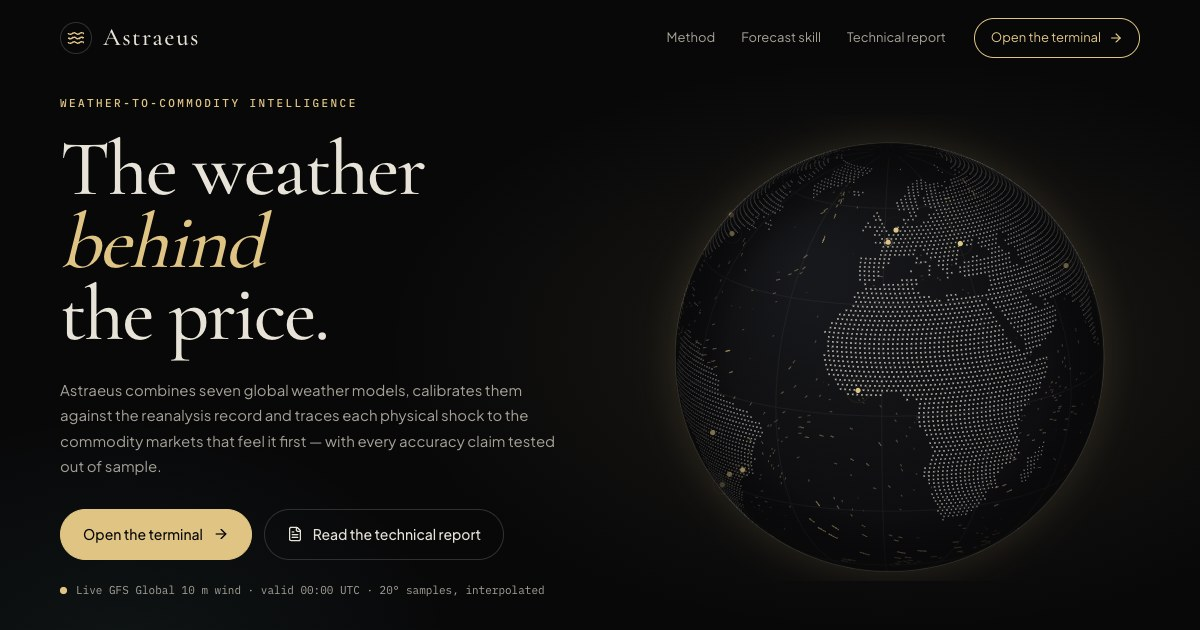
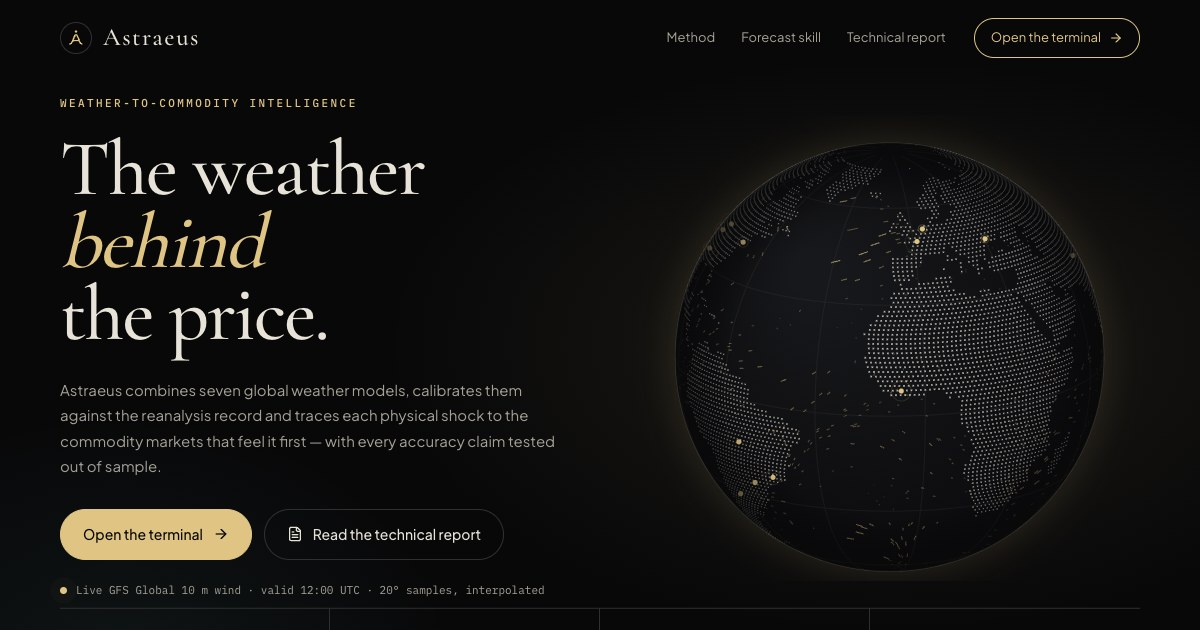
feat(brand): new Astraeus mark; MIT code licence, CC BY-SA 4.0 results
- Replace the three-wave mark (too close to another firm's logo) with a forecast density curve forming an A, crossed
  by its 80% interval, with a star above: sidebar, landing header, model diagram, favicon and social image.
- LICENSE (MIT) for the code; LICENSE-RESULTS.md (CC BY-SA 4.0, required by Met Office share-alike) for
  public/research, data/track-record, docs/results and the technical report.
- Landing footnote names v3.1 as the live method.

diff --git a/src/components/landing/Landing.tsx b/src/components/landing/Landing.tsx
@@ -1,5 +1,6 @@
 import React, { useEffect, useMemo, useRef, useState } from 'react';
-import { ArrowRight, ArrowUpRight, BookOpen, FileText, Gauge, Layers, ShieldCheck, Sparkles, Waves } from 'lucide-react';
+import { ArrowRight, ArrowUpRight, BookOpen, FileText, Gauge, Layers, ShieldCheck, Sparkles, TrendingUp } from 'lucide-react';
+import { AstraeusMark } from '../AstraeusMark';
 import { HeroGlobe, type HeroSite } from './HeroGlobe';
 import { BarList, FanChart, LineChart, type FanDay } from '../charts/Charts';
 import { loadJson, useResearchData, type WeatherSkill, type PriceSkill } from '../../engine/researchData';
@@ -65,7 +66,7 @@ const STEPS = [
   { n: '01', icon: Layers, title: 'Ingest seven global models', body: 'ECMWF IFS and its machine-learning sibling AIFS, NOAA GFS, DWD ICON, the UK Met Office, JMA and Environment Canada. Runs older than 24 hours are rejected, never back-filled.' },
   { n: '02', icon: Gauge, title: 'Score every model against the record', body: 'Each model’s past forecasts are verified against ERA5 reanalysis at the same lead time, region by region. Skill is measured, then earned: accurate models gain weight.' },
   { n: '03', icon: Sparkles, title: 'Calibrate into probabilities', body: 'Bias-corrected, skill-weighted and spread-adjusted by non-homogeneous Gaussian regression fitted on minimum CRPS (Gneiting et al., 2005). The output is a distribution, and its interval coverage is published, warts and all.' },
-  { n: '04', icon: Waves, title: 'Trace the shock into markets', body: 'Calibrated anomalies feed explicit, literature-backed mechanisms: heat at corn pollination, frost in Brazilian coffee, heating demand in the US Northeast — each with its own invalidation test.' },
+  { n: '04', icon: TrendingUp, title: 'Trace the shock into markets', body: 'Calibrated anomalies feed explicit, literature-backed mechanisms: heat at corn pollination, frost in Brazilian coffee, heating demand in the US Northeast — each with its own invalidation test.' },
 ];
 
 function StepVisual({ step, w }: { step: number; w: WeatherSkill | null }) {
@@ -79,7 +80,7 @@ function StepVisual({ step, w }: { step: number; w: WeatherSkill | null }) {
     <div className={`lp-vis ${step === 0 ? 'on' : ''}`} aria-hidden={step !== 0}>
       <div className="lp-models">
         {['ECMWF IFS', 'ECMWF AIFS', 'NOAA GFS', 'DWD ICON', 'UK Met Office', 'JMA GSM', 'ECCC GEM'].map((m, i) => <span key={m} style={{ ['--i' as any]: i }}>{m}{m === 'ECMWF AIFS' && <small>AI</small>}</span>)}
-        <div className="lp-models-core"><Waves size={22} /><strong>Astraeus</strong><small>multi-model calibration</small></div>
+        <div className="lp-models-core"><AstraeusMark size={22} /><strong>Astraeus</strong><small>multi-model calibration</small></div>
       </div>
     </div>
     <div className={`lp-vis ${step === 1 ? 'on' : ''}`} aria-hidden={step !== 1}>
@@ -152,7 +153,7 @@ export function Landing({ onEnter }: { onEnter: (view: WorkspaceView) => void })
 
   return <div className="lp" ref={root}>
     <header className={`lp-nav ${scrolled ? 'solid' : ''}`}>
-      <a className="lp-brand" href="#home" aria-label="Astraeus home"><span className="lp-mark"><Waves size={18} /></span>Astraeus</a>
+      <a className="lp-brand" href="#home" aria-label="Astraeus home"><span className="lp-mark"><AstraeusMark size={18} /></span>Astraeus</a>
       <nav aria-label="Site">
         <a href="#method" onClick={(e) => { e.preventDefault(); document.getElementById('lp-method')?.scrollIntoView({ behavior: 'smooth' }); }}>Method</a>
         <a href="#accuracy" onClick={go('accuracy')}>Forecast skill</a>
@@ -216,7 +217,7 @@ export function Landing({ onEnter }: { onEnter: (view: WorkspaceView) => void })
         </div>
         <div className="lp-proof-chart" data-reveal>
           {leadSeries.length ? <LineChart caption="Probabilistic error (CRPS, °C) of daily maximum temperature by forecast lead — lower is better" series={leadSeries} xFormat={(x) => LEAD_LABEL(x)} yFormat={(y) => y.toFixed(1)} xLabel="Lead" yLabel="CRPS (°C)" height={280} /> : null}
-          <p className="lp-footnote">Temperature gains over a no-training forecast fall from about 15% at day 1 to 3–5% at day 7; rainfall gains over the raw ensemble are small (1–2%) but significant at every lead. These are grid-box scores (~30 km): against nearby weather stations the same forecasts gain only 1–5%, and training on station data is what restores about 11% at day 1. Since 16 November the live outlook runs v3, which widens v2’s slightly over-confident ranges (80% intervals now hold about 78% of outcomes, up from 75%); every day’s outlook is logged to a hash-chained track record and scored as it verifies. ERA5 verification favours ECMWF’s AIFS, which is trained on it. <a href="#accuracy" onClick={go('accuracy')}>Full skill report <ArrowUpRight size={12} /></a></p>
+          <p className="lp-footnote">Temperature gains over a no-training forecast fall from about 15% at day 1 to 3–5% at day 7; rainfall gains over the raw ensemble are small (1–2%) but significant at every lead. These are grid-box scores (~30 km): against nearby weather stations the same forecasts gain only 1–5%, and training on station data is what restores about 11% at day 1. Since 16 November the live outlook runs v3.1, which widens v2’s slightly over-confident ranges (80% intervals now hold about 78% of outcomes, up from 75%) and no longer runs warm when the season turns; every day’s outlook is logged to a hash-chained track record and scored as it verifies. ERA5 verification favours ECMWF’s AIFS, which is trained on it. <a href="#accuracy" onClick={go('accuracy')}>Full skill report <ArrowUpRight size={12} /></a></p>
         </div>
       </div>
     </section>

diff --git a/src/App.tsx b/src/App.tsx
@@ -1,7 +1,7 @@
 import {researchFor,papersFor} from './engine/commodityResearch';
 import React, { Suspense, lazy, useEffect, useMemo, useRef, useState } from 'react';
 import { flushSync } from 'react-dom';
-import { FileText, Gauge, BookOpen, ArrowRight, Check, ChevronDown, ChevronRight, CircleHelp, Download, ExternalLink, FlaskConical, Globe2, Layers3, Loader2, Radar, RefreshCw, Search, ShieldCheck, SlidersHorizontal, Sprout, Star, Waves, X, Zap } from 'lucide-react';
+import { FileText, Gauge, BookOpen, ArrowRight, Check, ChevronDown, ChevronRight, CircleHelp, Download, ExternalLink, FlaskConical, Globe2, Layers3, Loader2, Radar, RefreshCw, Search, ShieldCheck, SlidersHorizontal, Sprout, Star, X, Zap } from 'lucide-react';
 import { COMMODITIES, SECTORS, type CommodityDefinition, type CommodityForecast } from './engine/commodityForecastEngine';
 import { appendForecastSnapshot, linksForCommodity, TRANSMISSION_VERSION } from './engine/commodityTransmissionEngine';
 import { workspaceViewFromHash, type WorkspaceView } from './engine/workspaceNavigation';
@@ -23,6 +23,7 @@ const TechnicalReport = lazy(() => import('./components/TechnicalReport').then((
 const ViewLoading = () => <div className="sk-loading" role="status">Loading view…</div>;
 import { CalibratedOutlookPanel } from './components/CalibratedOutlookPanel';
 import { DataAttribution } from './components/DataAttribution';
+import { AstraeusMark } from './components/AstraeusMark';
 import './landing.css';
 import './components/charts/charts.css';
 import './skill.css';
@@ -158,7 +159,7 @@ export function App() {
   if (view === 'home') return <Landing onEnter={navigate} />;
   return <div className="af-app">
     <aside className="af-sidebar">
-      <a className="af-brand" href="#home" onClick={e => { e.preventDefault(); navigate('home'); }}><span className="af-logo"><Waves size={23} /></span><span>Astraeus<small>COMMODITY INTELLIGENCE</small></span></a>
+      <a className="af-brand" href="#home" onClick={e => { e.preventDefault(); navigate('home'); }}><span className="af-logo"><AstraeusMark size={23} /></span><span>Astraeus<small>COMMODITY INTELLIGENCE</small></span></a>
       <div className="af-nav-caption">WORKSPACE</div>
       <nav aria-label="Workspace">
         <button title="Global globe explorer" aria-label="Global globe explorer" aria-current={view === 'globe' ? 'page' : undefined} className={view === 'globe' ? 'active' : ''} onClick={() => navigate('globe')}><Globe2 size={18} /> Global explorer <ChevronRight size={14} /></button>

diff --git a/src/components/AstraeusMark.tsx b/src/components/AstraeusMark.tsx
@@ -1,0 +1,27 @@
+/**
+ * The Astraeus mark: a forecast density curve that rises to a peak like an "A", crossed by its 80% interval, with a star
+ * above the peak (Astraeus, the Titan of the stars and winds). Drawn in currentColor so it follows the surrounding text.
+ * The same geometry is used for public/favicon.svg.
+ */
+export function AstraeusMark({ size = 20, title }: { size?: number; title?: string }) {
+  return (
+    <svg
+      width={size}
+      height={size}
+      viewBox="0 0 24 24"
+      fill="none"
+      stroke="currentColor"
+      strokeWidth={2}
+      strokeLinecap="round"
+      strokeLinejoin="round"
+      role={title ? 'img' : undefined}
+      aria-hidden={title ? undefined : true}
+      aria-label={title}
+      focusable="false"
+    >
+      <path d="M4 20c4.2 0 5-12.5 8-12.5S15.8 20 20 20" />
+      <path d="M8.6 15.4h6.8" strokeWidth={1.6} />
+      <circle cx="12" cy="3.4" r="1.6" fill="currentColor" stroke="none" />
+    </svg>
+  );
+}

diff --git a/LICENSE-RESULTS.md b/LICENSE-RESULTS.md
@@ -1,0 +1,20 @@
+# Licence for the research results
+
+The **code** in this repository is under the MIT License (`LICENSE`).
+
+The **research results and published forecasts** are licensed under the
+[Creative Commons Attribution-ShareAlike 4.0 International licence (CC BY-SA 4.0)](https://creativecommons.org/licenses/by-sa/4.0/):
+
+- `public/research/` (benchmark scores, study results, archives)
+- `data/track-record/` (the daily outlook snapshots, scores and ledger)
+- `docs/results/` and `docs/TECHNICAL_REPORT.md` (the write-ups and the technical report)
+
+Share-alike is required, not chosen. These files are derived from multi-model weather forecasts that include UK Met Office data, which Open-Meteo redistributes under CC BY-SA 4.0. Anything adapted from them must carry the same licence.
+
+When you reuse them, credit "Astraeus (github.com/AtharvaGadre/alpha-forge)" and keep the upstream attributions:
+
+- Weather data by Open-Meteo.com
+- Contains modified Copernicus Climate Change Service information
+- ECMWF, NOAA, DWD, UK Met Office, JMA and ECCC as the model providers
+
+See `docs/DATA_LICENSING.md` for every source and its terms.

diff --git a/docs/DATA_LICENSING.md b/docs/DATA_LICENSING.md
@@ -43,4 +43,6 @@ What Astraeus uses, under which terms, and what has to change before any commerc
 
 ## The repository's own licence
 
-None has been chosen yet: no `LICENSE` file exists. Pick one before publishing the code. MIT or Apache-2.0 suit an open research release; keep it proprietary if the product will be sold. The published results files in `public/research/` inherit the share-alike condition above for anything derived from Met Office data.
+- **Code: MIT** (`LICENSE`). Anyone may use, copy, modify and sell the code if they keep the copyright notice. It comes with no warranty.
+- **Research results and published forecasts: CC BY-SA 4.0** (`LICENSE-RESULTS.md`). This covers `public/research/`, `data/track-record/`, `docs/results/` and `docs/TECHNICAL_REPORT.md`. Share-alike is required by the Met Office data in the multi-model inputs, so it is not optional.
+- **The MIT licence covers only this code.** It grants no rights to the upstream data. Anyone running the code still needs their own Open-Meteo plan for commercial use and a licensed price feed (see above).
